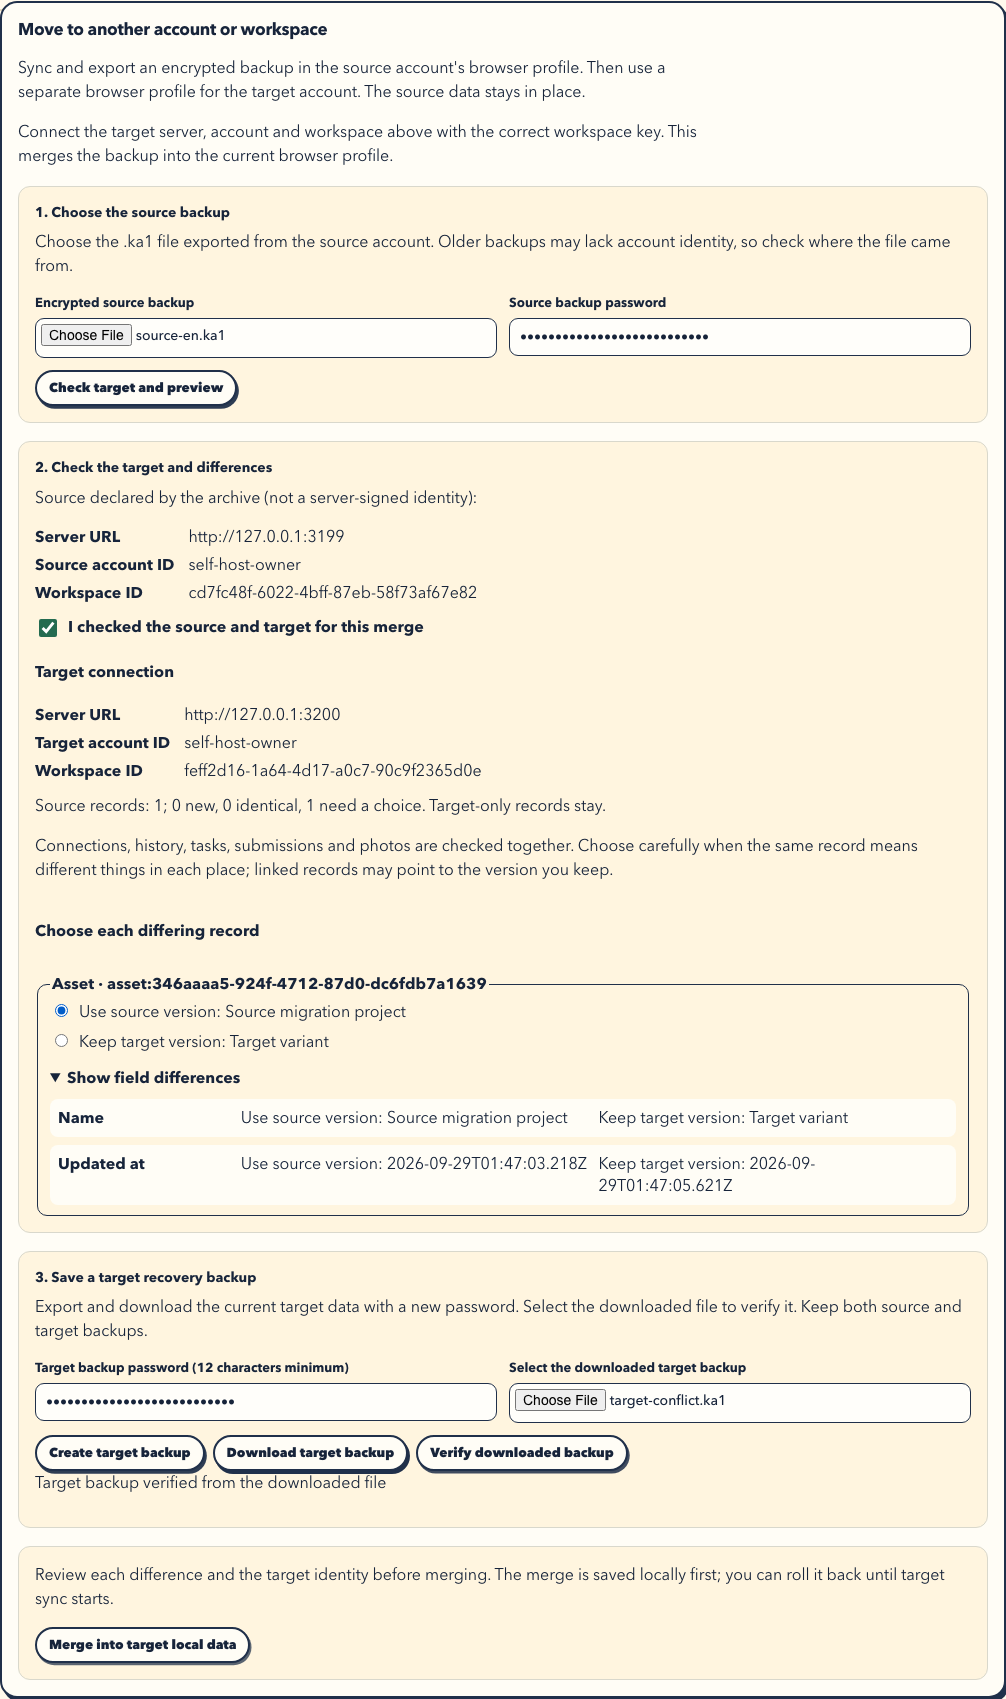
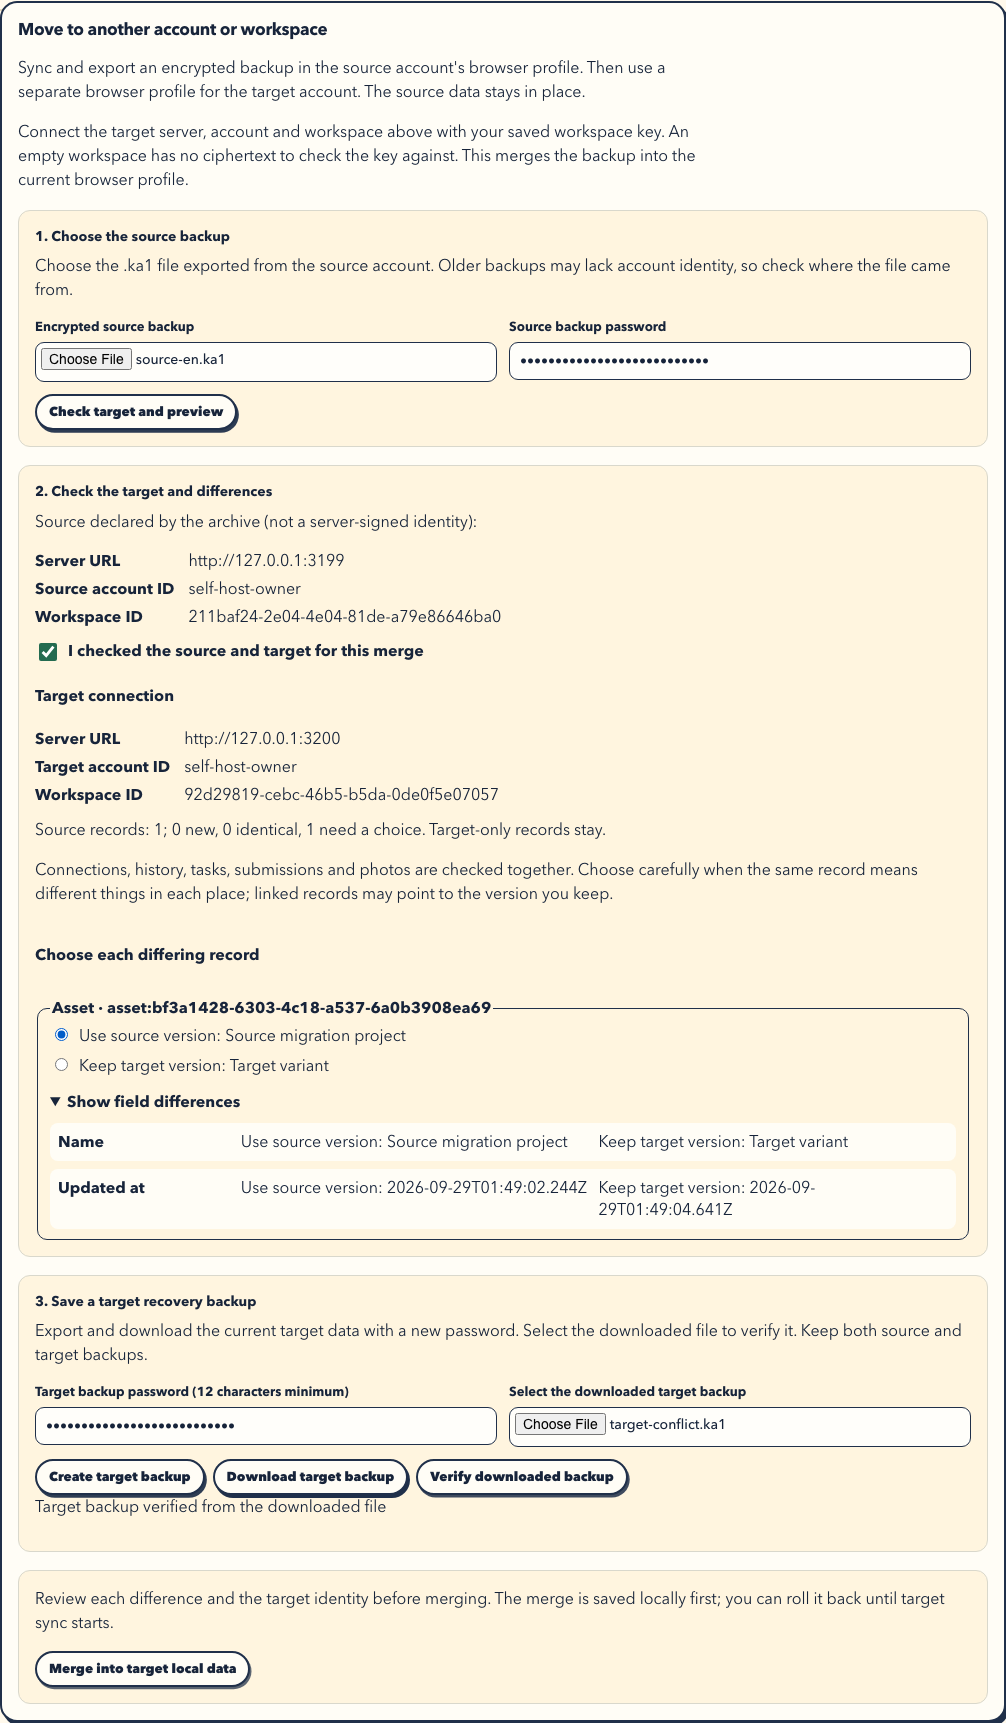
fix: clarify migration key and source recovery boundaries

Changed region(s): [[0.0, 0.0312, 0.9861, 0.9982], [0.7704, 0.4991, 0.8936, 0.5303], [0.832, 0.9046, 0.9245, 0.9358]]

diff --git a/apps/web/src/i18n.ts b/apps/web/src/i18n.ts
@@ -487,7 +487,7 @@ const copy: Record<string, [string, string]> = {
 	syncKeepRemote: ["保留服务器版本", "Keep server version"],
 	migrationTitle: ["迁移到另一账号或工作区", "Move to another account or workspace"],
 	migrationHint: ["在原账号的浏览器资料中先完成同步并导出加密备份，再在目标账号的独立浏览器资料中进行此操作。原账号资料不会被改动。", "Sync and export an encrypted backup in the source account's browser profile. Then use a separate browser profile for the target account. The source data stays in place."],
-	migrationProfiles: ["请先在上方连接目标服务、账号与工作区，填写正确的工作区密钥。此操作会把备份中的资料合入当前浏览器资料。", "Connect the target server, account and workspace above with the correct workspace key. This merges the backup into the current browser profile."],
+	migrationProfiles: ["请先在上方连接目标服务、账号与工作区，填写你保存的工作区密钥。空工作区尚无密文可用来验证密钥。此操作会把备份中的资料合入当前浏览器资料。", "Connect the target server, account and workspace above with your saved workspace key. An empty workspace has no ciphertext to check the key against. This merges the backup into the current browser profile."],
 	migrationSourceTitle: ["1. 选择来源备份", "1. Choose the source backup"],
 	migrationSourceHint: ["选择原账号导出的 .ka1 文件。旧格式备份可能没有账号标识；请自行核对文件来源。", "Choose the .ka1 file exported from the source account. Older backups may lack account identity, so check where the file came from."],
 	migrationSourceFile: ["来源加密备份", "Encrypted source backup"],
@@ -569,7 +569,7 @@ const copy: Record<string, [string, string]> = {
 	"migrationError_archive-references": ["备份中的关联资料无法通过校验，请核对来源备份。", "Linked records in the backup did not pass validation. Check the source backup."],
 	"migrationError_sync-dataset-bound": ["当前浏览器资料已关联另一目标。请使用目标账号的独立浏览器资料。", "This browser profile is linked to another target. Use a separate profile for the destination account."],
 	"migrationError_migrationTargetNotClean": ["目标本机有待同步或冲突的资料。请先完成目标同步，再预览迁移。", "The target has pending changes or conflicts. Finish its sync before previewing the migration."],
-	"migrationError_migrationTargetFailed": ["未能核对目标账号、工作区和密钥。请检查上方同步状态。", "Could not verify the target account, workspace and key. Check the sync status above."],
+	"migrationError_migrationTargetFailed": ["未能完成目标预检与拉取。请检查账号、工作区、密钥和上方同步状态。", "Target preflight or pull did not finish. Check the account, workspace, key and sync status above."],
 	"migrationError_migrationBackupMismatch": ["目标备份回读不匹配，请重新下载并选择正确文件。", "The downloaded target backup did not match. Download it again and select the correct file."],
 	"migrationError_migrationBackupPassword": ["目标备份密码至少需要 12 位。", "Use at least 12 characters for the target backup password."],
 	"migrationError_migrationBackupRequired": ["请先下载并回读验证目标恢复备份。", "Download and verify the target recovery backup first."],

diff --git a/apps/web/src/components/ArchiveMigrationPanel.tsx b/apps/web/src/components/ArchiveMigrationPanel.tsx
@@ -75,7 +75,7 @@ export function ArchiveMigrationPanel({ configurationKey, syncBusy, onBusyChange
 
 	const reset = () => {
 		generation.current++;
-		setTarget(null); setSourceBinding(null); setSourceAcknowledged(false);
+		setTarget(null); setSourceBinding(null); setLegacySourceLabel(""); setSourceAcknowledged(false);
 		setSourceBytes(null); setPreview(null); setChoices({});
 		setTargetBackupHash(null); setBackupVerified(false); setBackupFile(null); setMessage("");
 		if (downloadUrl.current) URL.revokeObjectURL(downloadUrl.current);
@@ -85,7 +85,7 @@ export function ArchiveMigrationPanel({ configurationKey, syncBusy, onBusyChange
 	useEffect(() => {
 		void configurationKey;
 		generation.current++;
-		setTarget(null); setSourceBinding(null); setSourceAcknowledged(false);
+		setTarget(null); setSourceBinding(null); setLegacySourceLabel(""); setSourceAcknowledged(false);
 		setSourceBytes(null); setPreview(null); setChoices({});
 		setTargetBackupHash(null); setBackupVerified(false); setBackupFile(null); setMessage("");
 		if (downloadUrl.current) URL.revokeObjectURL(downloadUrl.current);
